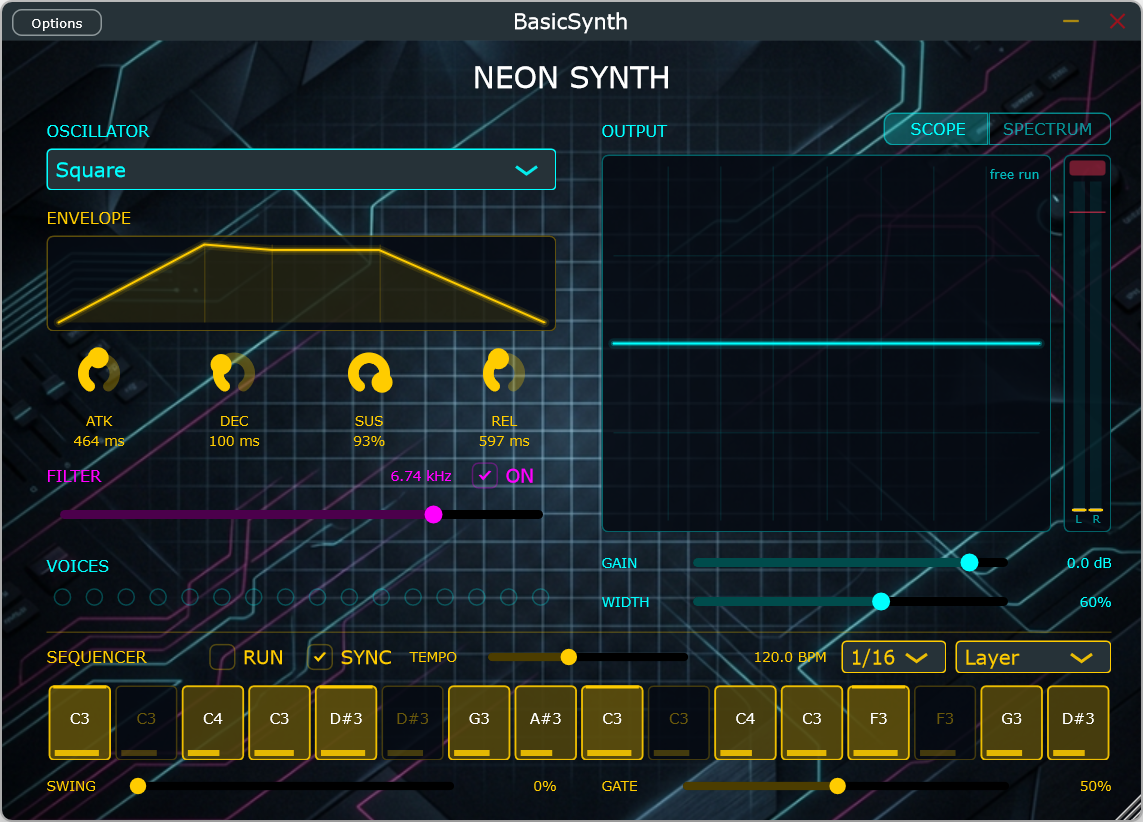
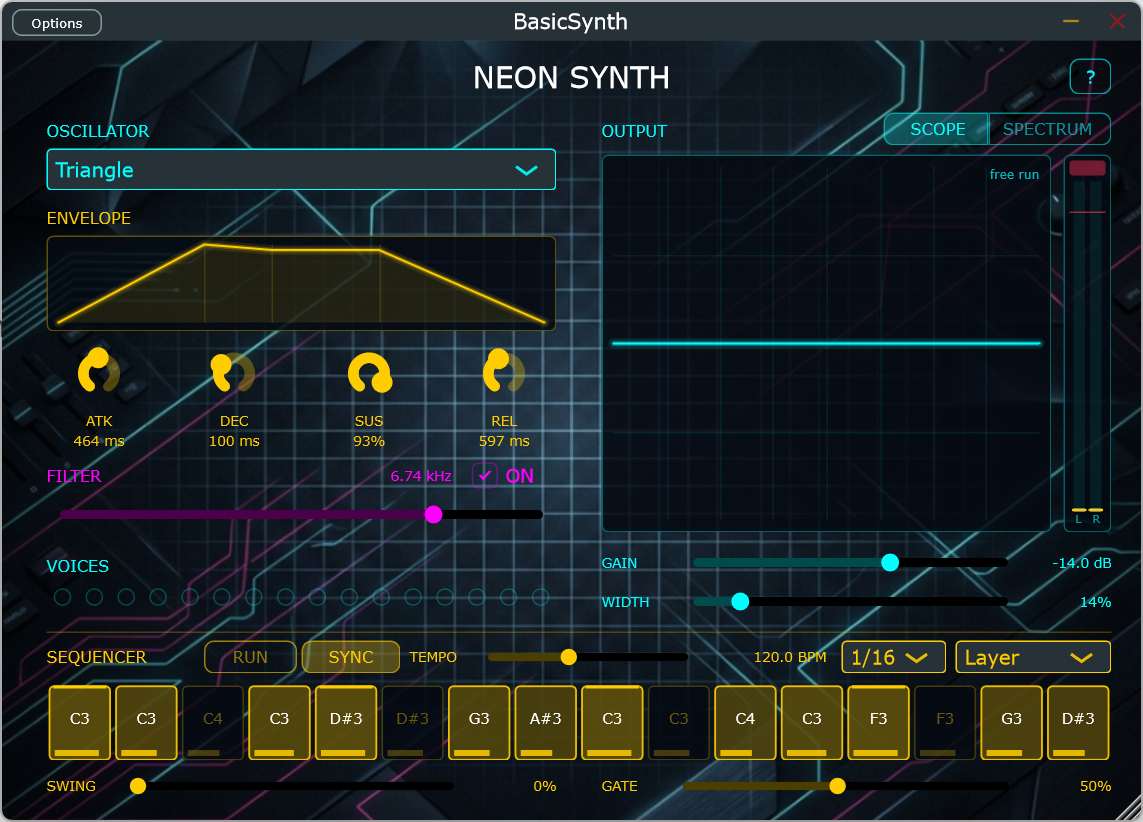
README: no-keyboard and no-sound tips, RUN/SYNC lit states, new screenshot
Claude-Session: https://claude.ai/code/session_01WdvJbMWXfTwbxS2MtiCyAB

diff --git a/README.md b/README.md
@@ -84,6 +84,10 @@ cmake --build build --config Release
 Run `BasicSynth.exe`. Click **Options → Audio/MIDI Settings** to select your
 audio output and MIDI input device, then play from any connected MIDI keyboard.
 
+**No MIDI keyboard?** Press **RUN** — the step sequencer plays its pattern on its own. To play notes, use a virtual keyboard such as [VMPK](https://vmpk.sourceforge.io/) routed through [loopMIDI](https://www.tobias-erichsen.de/software/loopmidi.html), then tick the loopMIDI port under MIDI inputs.
+
+**No sound?** Check that the output device is selected and its channels are ticked under *Active output channels*. Laptop speakers reproduce very little below about 200 Hz, so low notes on the Sine or Triangle waveform can be almost inaudible — switch to Sawtooth or Square, raise the notes, or use headphones. The **?** button in the top-right corner has these tips too.
+
 You can also launch the standalone application with the `--midilog <file>` parameter, or set the `BASICSYNTH_MIDILOG` environment variable, to log real-time MIDI input:
 ```bash
 BasicSynth.exe --midilog log.txt
@@ -118,8 +122,8 @@ A 16-step sequencer sits along the bottom of the window. It is **off by default*
 
 | Control | Description |
 |---|---|
-| RUN | Starts / stops the sequencer. Stopping releases any sounding notes at once. |
-| SYNC | On: follow the host's tempo and transport (the pattern locks to the DAW's bars and stops when the DAW stops). The readout then shows `HOST` and the host tempo. If the host has no transport — e.g. the Standalone — the sequencer uses TEMPO instead. Off: always use TEMPO. |
+| RUN | Starts / stops the sequencer (lit amber while running). Stopping releases any sounding notes at once. |
+| SYNC | Lit = on. On: follow the host's tempo and transport (the pattern locks to the DAW's bars and stops when the DAW stops). The readout then shows `HOST` and the host tempo. If the host has no transport — e.g. the Standalone — the sequencer uses TEMPO instead. Off: always use TEMPO. |
 | TEMPO | Internal tempo, 40–240 BPM. |
 | Rate | Step length: 1/8, 1/16, 1/32, 1/8T or 1/16T. |
 | Mode | **Layer** — sequencer and keyboard both play. **Replace** — keyboard notes are ignored. **Transpose** — the pattern plays only while a key is held, shifted by (key − C4); the most recently pressed key wins. |
